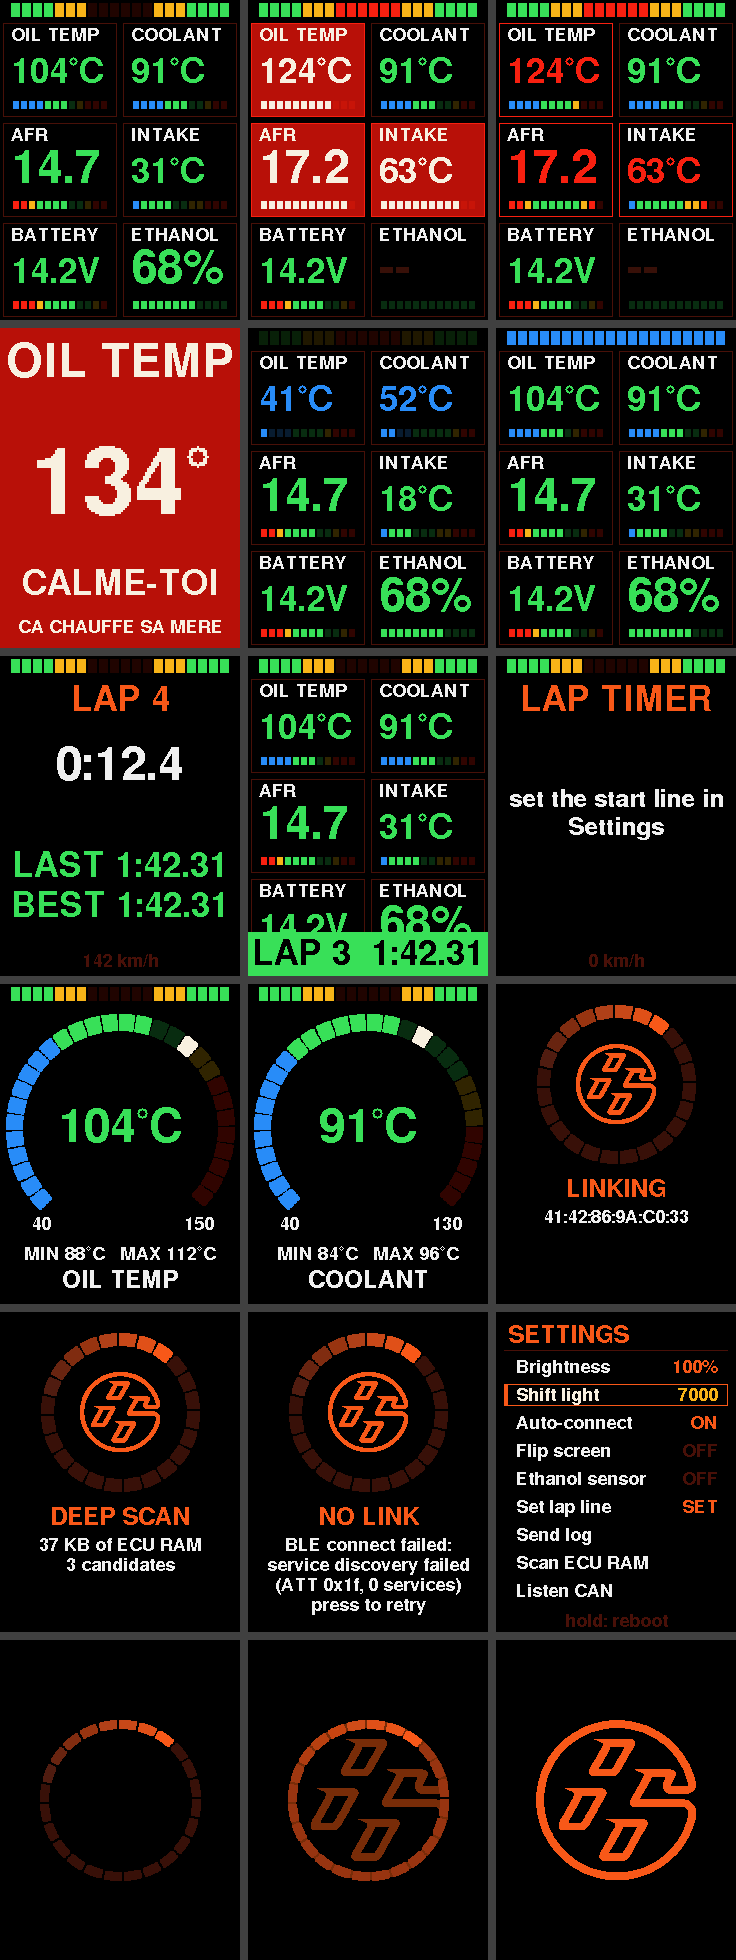
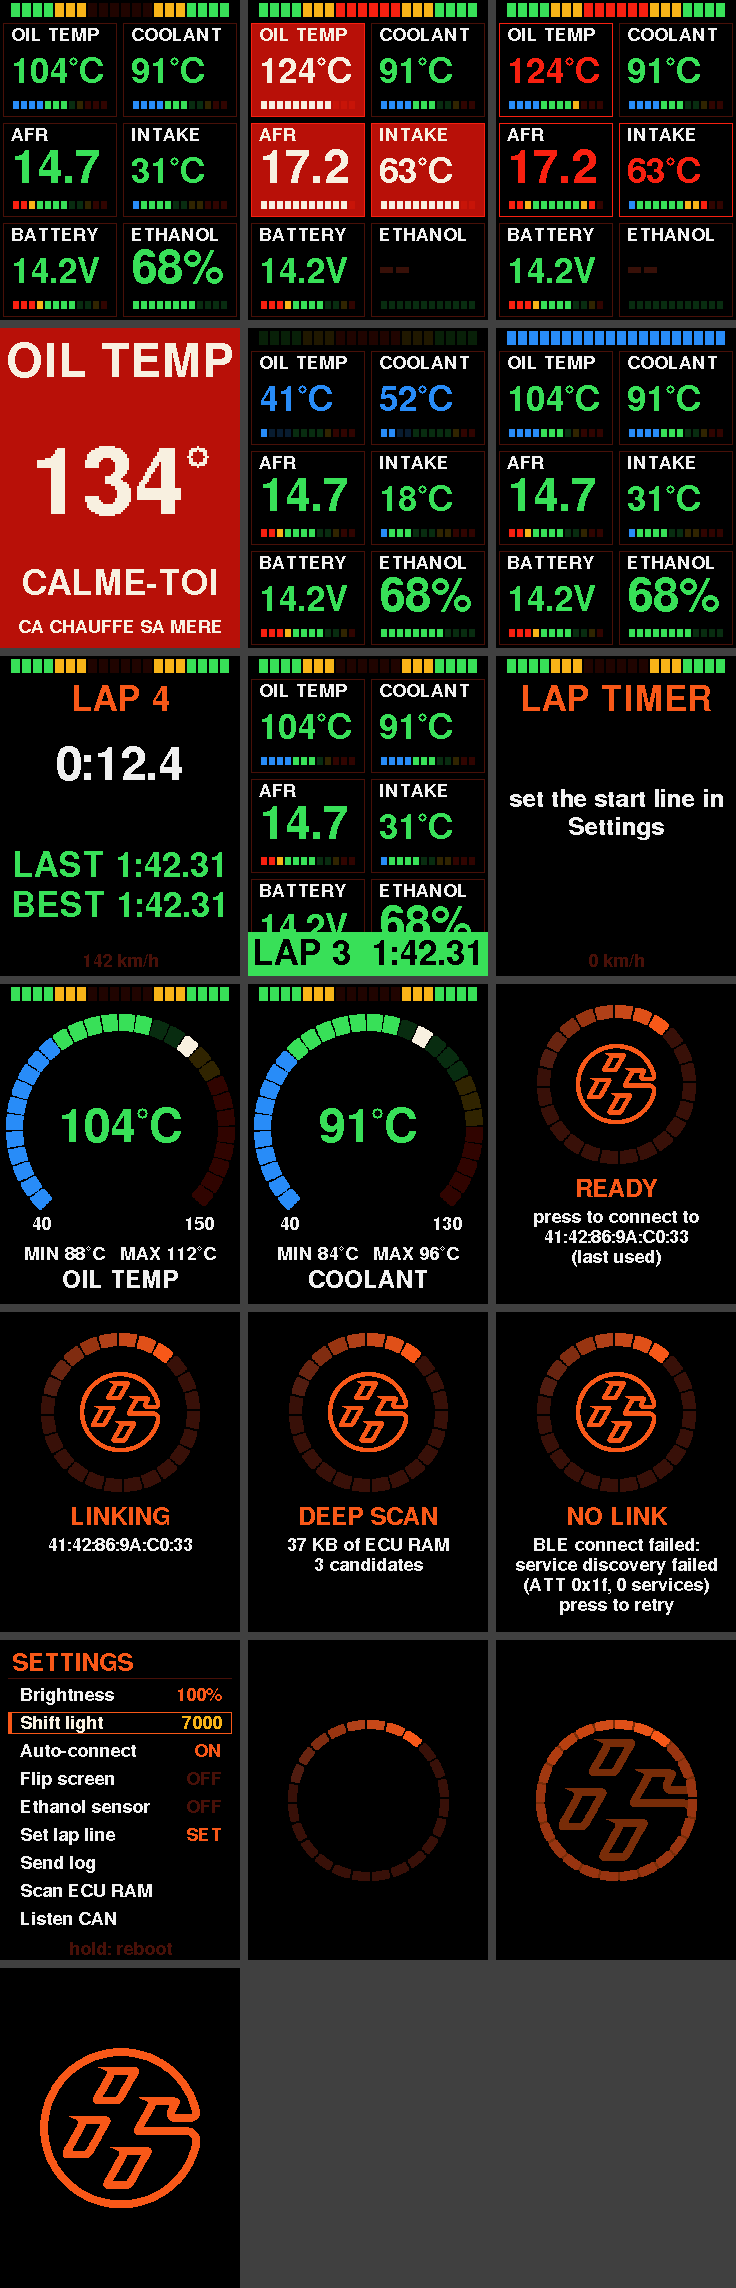
feat: connect prompt names the nearby dongle (last used first), web page in TypeScript, send log ack and go back, GPS lap timer, flash data log

diff --git a/src/firmware/ble.c b/src/firmware/ble.c
@@ -82,6 +82,14 @@ static void advertise(void);
 static void resume(void);
 static void start_scan(void);
 
+// last_dongle is the dongle last connected to (from the settings);
+// picked is what a click on the prompt connects to, found by a scan in
+// the background: the last dongle if it's around, else the first seen.
+// connected is the dongle just connected to, for the settings.
+static dongle_t last_dongle, picked, connecting_to, connected;
+static bool picked_last, connected_new, radio_on;
+static char picked_name[32];
+
 static elm_t elm;
 // disconnecting is set once a reboot is on its way: the disconnection it
 // causes isn't a failure, and nothing else should start.
@@ -327,16 +335,60 @@ static void gatt_handler(uint8_t packet_type, uint16_t channel, uint8_t *packet,
     }
 }
 
+// connect_to stops scanning and connects to a dongle.
+static void connect_to(const bd_addr_t addr, uint8_t type, const char *name) {
+    gap_stop_scan();
+    snprintf(peer, sizeof peer, "%s", name_or_address(name, addr));
+    char status[192];
+    snprintf(status, sizeof status, "LINKING\n%s", peer);
+    set_phase(CONNECTING, status);
+    log_line("ble: connecting to %s", bd_addr_to_str(addr));
+    connecting_to = (dongle_t){.set = true, .type = type};
+    memcpy(connecting_to.addr, addr, sizeof connecting_to.addr);
+    uint8_t err = gap_connect(addr, (bd_addr_type_t)type);
+    if (err != ERROR_CODE_SUCCESS) {
+        char error[32];
+        snprintf(error, sizeof error, "gap_connect error 0x%02x", err);
+        fail("BLE connect", error);
+    }
+}
+
+// prompt_report is a device seen while the prompt waits for a click: a
+// dongle becomes what the click connects to, the last one used first.
+static void prompt_report(const bd_addr_t addr, uint8_t type, const char *name, uint8_t len, const uint8_t *data) {
+    if (!looks_like_elm(addr, name, len, data)) {
+        return;
+    }
+    bool last = last_dongle.set && memcmp(last_dongle.addr, addr, sizeof last_dongle.addr) == 0;
+    if (picked.set && (picked_last || !last)) {
+        return;
+    }
+    picked = (dongle_t){.set = true, .type = type};
+    memcpy(picked.addr, addr, sizeof picked.addr);
+    picked_last = last;
+    snprintf(picked_name, sizeof picked_name, "%s", name);
+    log_line("ble: prompt offers %s %s%s", bd_addr_to_str(addr), name, last ? " (last used)" : "");
+    char status[192];
+    snprintf(status, sizeof status, "READY\npress to connect to\n%s%s", name_or_address(name, addr),
+             last ? "\n(last used)" : "");
+    state_set_status(state, status);
+}
+
 static void advertising_report(uint8_t *packet) {
-    if (phase != SCANNING) {
+    if (phase != SCANNING && phase != PROMPT) {
         return;
     }
     bd_addr_t addr;
     gap_event_advertising_report_get_address(packet, addr);
+    uint8_t type = gap_event_advertising_report_get_address_type(packet);
     uint8_t len = gap_event_advertising_report_get_data_length(packet);
     const uint8_t *data = gap_event_advertising_report_get_data(packet);
     char name[32];
     advertised_name(len, data, name);
+    if (phase == PROMPT) {
+        prompt_report(addr, type, name, len, data);
+        return;
+    }
     if (!looks_like_elm(addr, name, len, data)) {
         char status[192];
         snprintf(status, sizeof status, "SEARCHING\nlast ignored:\n%s", name_or_address(name, addr));
@@ -345,18 +397,7 @@ static void advertising_report(uint8_t *packet) {
     }
     log_line("ble: candidate %s %s RSSI %d", bd_addr_to_str(addr), name,
              (int8_t)gap_event_advertising_report_get_rssi(packet));
-    gap_stop_scan();
-    snprintf(peer, sizeof peer, "%s", name_or_address(name, addr));
-    char status[192];
-    snprintf(status, sizeof status, "LINKING\n%s", peer);
-    set_phase(CONNECTING, status);
-    log_line("ble: connecting to %s", bd_addr_to_str(addr));
-    uint8_t err = gap_connect(addr, (bd_addr_type_t)gap_event_advertising_report_get_address_type(packet));
-    if (err != ERROR_CODE_SUCCESS) {
-        char error[32];
-        snprintf(error, sizeof error, "gap_connect error 0x%02x", err);
-        fail("BLE connect", error);
-    }
+    connect_to(addr, type, name);
 }
 
 static void connection_complete(uint8_t *packet) {
@@ -371,6 +412,8 @@ static void connection_complete(uint8_t *packet) {
         return;
     }
     connection = gap_subevent_le_connection_complete_get_connection_handle(packet);
+    connected = connecting_to;
+    connected_new = true;
     char text[192];
     snprintf(text, sizeof text, "HANDSHAKE\n%s", peer);
     set_phase(DISCOVERING_SERVICES, text);
@@ -386,9 +429,17 @@ static void hci_handler(uint8_t packet_type, uint16_t channel, uint8_t *packet, 
     }
     switch (hci_event_packet_get_type(packet)) {
     case BTSTACK_EVENT_STATE:
-        if (btstack_event_state_get_state(packet) == HCI_STATE_WORKING && send_log) {
+        if (btstack_event_state_get_state(packet) != HCI_STATE_WORKING) {
+            break;
+        }
+        radio_on = true;
+        if (send_log) {
             advertise();
-        } else if (btstack_event_state_get_state(packet) == HCI_STATE_WORKING && phase == STARTING) {
+        } else if (phase == PROMPT) {
+            // In the background, for the prompt to name a dongle.
+            gap_set_scan_parameters(1, 0x30, 0x30);
+            gap_start_scan();
+        } else if (phase == STARTING) {
             start_scan();
         }
         break;
@@ -545,8 +596,9 @@ static void resume(void) {
     start_scan();
 }
 
-static void start(void) {
-    set_phase(STARTING, "IGNITION\nstarting Bluetooth");
+// start_radio brings the radio and BTstack up; the HCI working event
+// carries on from the phase it finds.
+static void start_radio(void) {
     if (cyw43_arch_init()) {
         fail("Bluetooth", "cyw43 init failed");
         return;
@@ -563,14 +615,30 @@ static void start(void) {
     hci_power_control(HCI_POWER_ON);
 }
 
-void ble_init(state_t *s, bool auto_start) {
+static void start(void) {
+    set_phase(STARTING, "IGNITION\nstarting Bluetooth");
+    start_radio();
+}
+
+void ble_init(state_t *s, bool auto_start, const dongle_t *last) {
     state = s;
     auto_connect = auto_start;
+    last_dongle = *last;
     if (auto_start) {
         start();
     } else {
-        set_phase(PROMPT, "READY\npress to connect");
+        set_phase(PROMPT, "READY\nlooking for dongles\npress to connect");
+        start_radio();
     }
+}
+
+bool ble_take_dongle(dongle_t *out) {
+    if (!connected_new) {
+        return false;
+    }
+    connected_new = false;
+    *out = connected;
+    return true;
 }
 
 static void check_timeouts(void) {
@@ -714,7 +782,15 @@ bool ble_prompt_click(uint32_t now_ms) {
     now = now_ms;
     switch (phase) {
     case PROMPT:
-        start();
+        if (picked.set) {
+            connect_to(picked.addr, picked.type, picked_name);
+        } else if (radio_on) {
+            gap_stop_scan();
+            start_scan();
+        } else {
+            // The radio is still starting: it scans once up.
+            set_phase(STARTING, "IGNITION\nstarting Bluetooth");
+        }
         return true;
     case FAILED:
         if (!auto_connect) {

diff --git a/src/app/settings.c b/src/app/settings.c
@@ -5,14 +5,15 @@
 // "GT86" then a format version mark a sector holding settings.
 static const uint8_t magic[4] = {'G', 'T', '8', '6'};
 // Older versions still decode: version 1 without the shift light (off),
-// version 2 without the lap line (unset).
-#define VERSION 3
+// version 2 without the lap line (unset), version 3 without the dongle.
+#define VERSION 4
 
 enum {
     FLAG_AUTO_CONNECT = 1 << 0,
     FLAG_FLIP = 1 << 1,
     FLAG_ETHANOL_SENSOR = 1 << 2,
     FLAG_LAP_LINE = 1 << 3,
+    FLAG_DONGLE = 1 << 4,
 };
 
 static void put32(uint8_t *p, uint32_t v) {
@@ -30,12 +31,15 @@ void settings_encode(settings_t s, uint8_t out[SETTINGS_SIZE]) {
     out[4] = VERSION;
     out[5] = (uint8_t)s.brightness;
     out[6] = (uint8_t)((s.auto_connect ? FLAG_AUTO_CONNECT : 0) | (s.flip ? FLAG_FLIP : 0) |
-                       (s.ethanol_sensor ? FLAG_ETHANOL_SENSOR : 0) | (s.lap_line.set ? FLAG_LAP_LINE : 0));
+                       (s.ethanol_sensor ? FLAG_ETHANOL_SENSOR : 0) | (s.lap_line.set ? FLAG_LAP_LINE : 0) |
+                       (s.dongle.set ? FLAG_DONGLE : 0));
     out[7] = (uint8_t)(s.shift_rpm / SHIFT_RPM_STEP);
     put32(out + 8, (uint32_t)s.lap_line.lat);
     put32(out + 12, (uint32_t)s.lap_line.lon);
     out[16] = (uint8_t)s.lap_line.heading;
     out[17] = (uint8_t)((uint16_t)s.lap_line.heading >> 8);
+    memcpy(out + 18, s.dongle.addr, sizeof s.dongle.addr);
+    out[24] = s.dongle.type;
 }
 
 settings_t settings_decode(const uint8_t in[SETTINGS_SIZE]) {
@@ -44,6 +48,12 @@ settings_t settings_decode(const uint8_t in[SETTINGS_SIZE]) {
         return SETTINGS_DEFAULT;
     }
     int shift = in[4] >= 2 ? in[7] * SHIFT_RPM_STEP : 0;
+    dongle_t dongle = {0};
+    if (in[4] >= 4 && (in[6] & FLAG_DONGLE)) {
+        dongle.set = true;
+        memcpy(dongle.addr, in + 18, sizeof dongle.addr);
+        dongle.type = in[24];
+    }
     return (settings_t){
         .brightness = in[5],
         .auto_connect = (in[6] & FLAG_AUTO_CONNECT) != 0,
@@ -54,6 +64,7 @@ settings_t settings_decode(const uint8_t in[SETTINGS_SIZE]) {
             in[4] >= 3 && (in[6] & FLAG_LAP_LINE)
                 ? (lap_line_t){true, (int32_t)get32(in + 8), (int32_t)get32(in + 12), (int16_t)(in[16] | in[17] << 8)}
                 : (lap_line_t){0},
+        .dongle = dongle,
     };
 }
 
@@ -61,5 +72,9 @@ bool settings_equal(settings_t a, settings_t b) {
     return a.brightness == b.brightness && a.auto_connect == b.auto_connect && a.flip == b.flip &&
            a.ethanol_sensor == b.ethanol_sensor && a.shift_rpm == b.shift_rpm &&
            a.lap_line.set == b.lap_line.set && a.lap_line.lat == b.lap_line.lat && a.lap_line.lon == b.lap_line.lon &&
-           a.lap_line.heading == b.lap_line.heading;
+           a.lap_line.heading == b.lap_line.heading && dongle_equal(a.dongle, b.dongle);
+}
+
+bool dongle_equal(dongle_t a, dongle_t b) {
+    return a.set == b.set && (!a.set || (memcmp(a.addr, b.addr, sizeof a.addr) == 0 && a.type == b.type));
 }

diff --git a/src/app/settings.h b/src/app/settings.h
@@ -7,6 +7,14 @@
 
 // settings_t is what the settings page changes. The firmware keeps it in
 // a flash sector of its own.
+// dongle_t is a BLE device's address, with its type (public or random)
+// as BLE needs it to connect.
+typedef struct {
+    bool set;
+    uint8_t addr[6];
+    uint8_t type;
+} dongle_t;
+
 typedef struct {
     // brightness is the backlight level, in percent.
     int brightness;
@@ -24,6 +32,9 @@ typedef struct {
     int shift_rpm;
     // lap_line is the lap timer's start/finish line.
     lap_line_t lap_line;
+    // dongle is the OBD dongle last connected to: the connect prompt
+    // offers it first.
+    dongle_t dongle;
 } settings_t;
 
 #define BRIGHTNESS_MIN 10
@@ -38,7 +49,7 @@ typedef struct {
 #define SETTINGS_DEFAULT ((settings_t){.brightness = BRIGHTNESS_MAX})
 
 // SETTINGS_SIZE is how many bytes settings_encode writes.
-#define SETTINGS_SIZE 18
+#define SETTINGS_SIZE 25
 
 void settings_encode(settings_t s, uint8_t out[SETTINGS_SIZE]);
 
@@ -47,3 +58,4 @@ void settings_encode(settings_t s, uint8_t out[SETTINGS_SIZE]);
 settings_t settings_decode(const uint8_t in[SETTINGS_SIZE]);
 
 bool settings_equal(settings_t a, settings_t b);
+bool dongle_equal(dongle_t a, dongle_t b);

diff --git a/tools/render_ui.c b/tools/render_ui.c
@@ -148,6 +148,10 @@ static void status(canvas_t *c, const char *text) {
     render(c, &s, (screen_t){0});
 }
 
+static void ready(canvas_t *c) {
+    status(c, "READY\npress to connect to\n41:42:86:9A:C0:33\n(last used)");
+}
+
 static void connecting(canvas_t *c) {
     status(c, "LINKING\n41:42:86:9A:C0:33");
 }
@@ -180,7 +184,7 @@ static void boot_logo(canvas_t *c) {
 
 static const shot_t shots[] = {
     {"grid", grid},         {"alarms", alarms}, {"alarms_unlit", alarms_unlit}, {"oil_critical", oil_critical}, {"cold", cold}, {"shift", shift}, {"lap", lap}, {"lap_banner", lap_banner}, {"lap_no_line", lap_no_line}, {"oil", oil},           {"coolant", coolant},
-    {"connecting", connecting}, {"scan", scan}, {"failed", failed}, {"settings", settings}, {"boot_spin", boot_spin}, {"boot_morph", boot_morph}, {"boot_logo", boot_logo},
+    {"ready", ready}, {"connecting", connecting}, {"scan", scan}, {"failed", failed}, {"settings", settings}, {"boot_spin", boot_spin}, {"boot_morph", boot_morph}, {"boot_logo", boot_logo},
 };
 #define SHOTS (int)(sizeof shots / sizeof shots[0])
 

diff --git a/src/firmware/main.c b/src/firmware/main.c
@@ -95,6 +95,19 @@ static void listen_can(void) {
 #endif
 }
 
+// take_dongle keeps the dongle just connected to in the settings, as
+// the one the connect prompt offers first.
+static void take_dongle(settings_t *cfg) {
+#if !SIM && DATA_SOURCE == SOURCE_ELM327_BLE
+    dongle_t d;
+    if (ble_take_dongle(&d)) {
+        cfg->dongle = d;
+    }
+#else
+    (void)cfg;
+#endif
+}
+
 static void send_log(datalog_t *log) {
 #if !SIM && DATA_SOURCE == SOURCE_ELM327_BLE
     ble_send_log(log);
@@ -280,7 +293,7 @@ int main(void) {
     (void)connect_now;
     mcp2515_source_init(&state);
 #else
-    ble_init(&state, cfg.auto_connect || connect_now);
+    ble_init(&state, cfg.auto_connect || connect_now, &cfg.dongle);
 #endif
 
     screen_t screen = {0};
@@ -308,6 +321,7 @@ int main(void) {
         if (press && !((screen.page == PAGE_GAUGES || standby()) && prompt_click(start))) {
             screen_press(&screen, &cfg);
         }
+        take_dongle(&cfg);
         act(screen.action, &cfg, start);
         screen.action = ACTION_NONE;
         read_gps(&cfg, start);

diff --git a/src/firmware/ble.h b/src/firmware/ble.h
@@ -4,6 +4,7 @@
 #include <stdint.h>
 
 #include "datalog.h"
+#include "settings.h"
 #include "signals.h"
 
 // The ELM327 Bluetooth LE OBD dongle as the data source: scan, connect,
@@ -17,7 +18,15 @@
 // click to retry, or retries by itself after 5s with auto. A retry is a
 // reboot that connects right away: a clean start is the known-good way
 // back, whatever state the BLE stack is in.
-void ble_init(state_t *state, bool auto_connect);
+// ble_init starts the source. With auto_connect, it connects to the first
+// dongle it finds; without, the radio scans in the background while the
+// prompt waits for a click, and names the dongle it will connect to:
+// last, the one last connected to, if it's around.
+void ble_init(state_t *state, bool auto_connect, const dongle_t *last);
+
+// ble_take_dongle hands over, once, the dongle just connected to: the
+// settings keep it as the last one.
+bool ble_take_dongle(dongle_t *out);
 void ble_poll(uint32_t now_ms);
 
 // ble_prompt_click hands a click to a waiting prompt, and reports whether

diff --git a/test/tests.c b/test/tests.c
@@ -464,8 +464,11 @@ static void test_settings(void) {
     settings_t old = settings_decode(buf);
     CHECK(old.brightness == 40 && old.flip && old.shift_rpm == 0, "version 1 settings lost (shift %d)", old.shift_rpm);
     cfg.lap_line = (lap_line_t){true, 481173000, -15166666, 271};
+    cfg.dongle = (dongle_t){true, {0x33, 0xC0, 0x9A, 0x86, 0x42, 0x41}, 0};
     settings_encode(cfg, buf);
-    CHECK(settings_equal(settings_decode(buf), cfg), "the lap line didn't round-trip");
+    CHECK(settings_equal(settings_decode(buf), cfg), "the lap line and dongle didn't round-trip");
+    buf[4] = 3; // saved before the dongle was
+    CHECK(!settings_decode(buf).dongle.set && settings_decode(buf).lap_line.set, "version 3 settings misread");
     memset(buf, 0xFF, sizeof buf);
     CHECK(settings_equal(settings_decode(buf), SETTINGS_DEFAULT), "erased flash didn't give the defaults");
 }

diff --git a/CLAUDE.md b/CLAUDE.md
@@ -31,7 +31,7 @@ Data flows one way: **source -> `state_t` -> `ui_render(canvas, state, screen, s
 - Single loop, no RTOS: `pico_cyw43_arch_poll`, so BTstack runs only when `ble_poll` calls `cyw43_arch_poll()`: between frames, and while the DMA pushes one. Nothing may block the loop.
 - `ble.c` is a phase machine: prompt -> start (cyw43 + BTstack) -> scan (30s timeout, matches name hints or `profiles` services, or `ELM_ADDRESS`) -> connect -> GATT discovery (logs every service/characteristic) -> notifications -> `elm_t` session. Writes are "without response"; a command the stack can't take yet stays pending for the next poll.
 - `elm327.c` is a non-blocking ELM327 session: init script (ATZ, echo/spaces off, headers on, ATSP6, ATSH7DF), probes whose raw answers are logged (ATI, ATRV, 0100/0120/0140 supported-PID bitmaps, 010C, and `010C24050F1`: if its answer holds all four PIDs, polling asks for them in one request), then a poll cycle (that one request, or RPM every other request between AFR, coolant and intake one at a time; ATRV every second, and every 3s the oil temperature: ATSH7E0, 2101, ATSH7DF, dropped after 3 answers without it while the ECU answers the rest). Multi-frame answers are reassembled by `isotp_feed`. Timeouts resend `ELM_RETRIES` times. With headers on each reply line is a CAN frame, decoded by `obd_decode` (ECU1 0x7E8, 11bit IDs only). The "1" response-count suffix is dropped if the dongle answers `?`. "Scan ECU RAM" in the settings (`elm_scan_ram`) suspends polling to read the engine ECU's RAM and log ethanol % candidates (see below), with its progress as the status. "Listen CAN" (`elm_listen_can`, `sniff.c`) finds a button's CAN ID by elimination: the dongle monitors one window of 256 IDs at a time (ATCAF0, ATCM700, ATCF, ATMA, frames fed line by line as they stream), 45s hands off marks every changing ID as noise, then 60s of presses; the candidates are logged and the session restarts with ATZ. The sport mode's ID is what it's for; it isn't known yet.
-- Connection control: without auto-connect the source waits on "press to connect"; a failure waits for a click to retry (auto-connect: retries after 5s). `main.c` hands a click to `ble_prompt_click` only on the gauges page. A retry is `watchdog_reboot` with `CONNECT_NOW` in watchdog scratch 0, so the next boot connects without asking.
+- Connection control: without auto-connect the source waits on "press to connect" while the radio scans in the background and names the dongle a click connects to straight away (the last one connected to, kept in the settings, if it's around; else the first seen); a failure waits for a click to retry (auto-connect: retries after 5s). `main.c` hands a click to `ble_prompt_click` only on the gauges page. A retry is `watchdog_reboot` with `CONNECT_NOW` in watchdog scratch 0, so the next boot connects without asking.
 - Standby: once polling, if the engine ECU hasn't answered anything for `CAR_OFF_MS` (90s), `ble.c` disconnects (so the dongle, always powered by the OBD port, can sleep) and powers the radio off; `main.c` puts the panel to sleep and stops drawing. A click reboots to connect. It saves what software can: a Pico on an always-live supply still draws ~20mA.
 - `screen_t` is what the encoder drives: on the gauges, turning cycles views (grid, then each gauge alone, its value drawn 2-3x by `gfx_text`'s scale instead of a bigger font); a click opens the settings page (brightness, shift light RPM, auto-connect, flip, ethanol sensor: the ADC is only read when on, an unconnected pin floats; Scan ECU RAM, Listen CAN, Disconnect: `ble_go_offline` lets the dongle go and powers the radio off with the screen on, until a click reboots to connect), which `main.c` applies at once and saves to flash when leaving the page. A 1s hold reboots.
 - `state_t.status` is the source's report while it isn't delivering: while non-empty, the gauges page draws a status screen (title, wrapped lines, spinner) instead of the tiles. A reading older than its tile's `stale_ms` renders as "--" (2s, 10s for the oil temperature polled every 3s). At power-on `ui_render_boot` shows a spinner whose ring closes into the logo's circle as the logo fades in.
